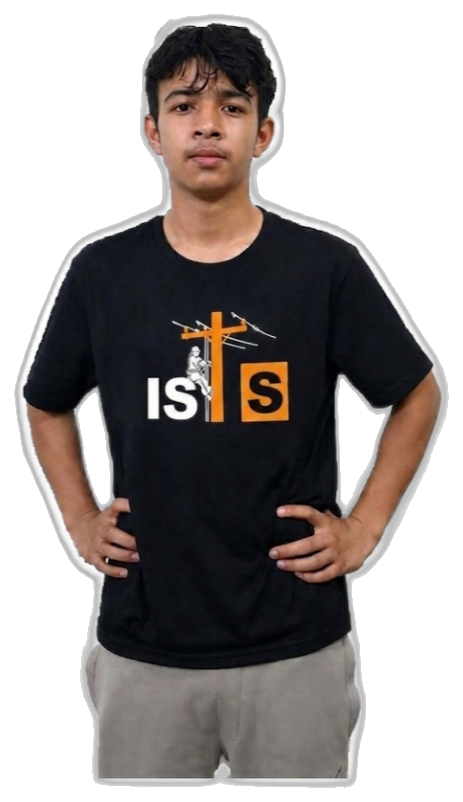
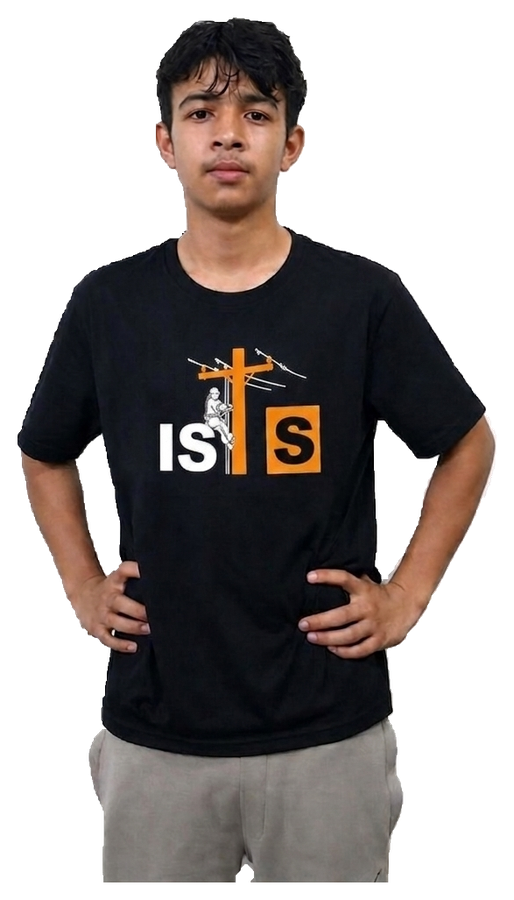
Rebuild Team page as an Instagram-story-style scrollytelling reel
Replaces the static Executive Committee / Media & Outreach / General
Members grids with a single MemberStoryReel: a sticky IG-story card
(segmented progress bar, text-then-photo staggered reveal, tap zones
to jump forward/back) paired with a scroll-driven roster list reusing
the homepage's onViewportEnter scrollytelling pattern. The reel
autoplays once scrolled into view -- the timer restarts whenever the
active member changes for any reason (autoplay, a scroll trigger, or
a click), so manual scrolling and autoplay never fight each other --
and pauses on hover or once scrolled out of view.

Also swapped in the user-supplied cutout photos (cleaner and higher
resolution than the earlier auto-generated ones), cropped to their
alpha bounding box and capped to 900px on the long side to keep page
weight reasonable.

Claude-Session: https://claude.ai/code/session_014QL8LwF9PhjyXZwzNjbfQy

Changed region(s): [[0.0302, 0.0, 0.9676, 0.9975], [0.3024, 0.3741, 0.635, 0.5299], [0.3931, 0.3117, 0.514, 0.3429]]

diff --git a/src/components/MemberStoryReel.tsx b/src/components/MemberStoryReel.tsx
@@ -1,0 +1,196 @@
+"use client";
+
+import { useEffect, useRef, useState } from "react";
+import Image from "next/image";
+import { AnimatePresence, motion, useInView } from "framer-motion";
+import { useSound } from "@/components/SoundProvider";
+import type { ExecMember } from "@/lib/data";
+
+const accents = [
+  { glow: "bg-primary/30", badge: "bg-primary/10 text-primary", bar: "bg-primary" },
+  { glow: "bg-cyan/30", badge: "bg-cyan/10 text-cyan", bar: "bg-cyan" },
+  { glow: "bg-violet/30", badge: "bg-violet/10 text-violet", bar: "bg-violet" },
+  { glow: "bg-lime/30", badge: "bg-lime/10 text-lime", bar: "bg-lime" },
+];
+
+const AUTOPLAY_MS = 4500;
+
+function initials(name: string) {
+  const parts = name.trim().split(/\s+/);
+  const first = parts[0]?.[0] ?? "";
+  const last = parts.length > 1 ? parts[parts.length - 1][0] : "";
+  return (first + last).toUpperCase();
+}
+
+export function MemberStoryReel({ members }: { members: ExecMember[] }) {
+  const [active, setActive] = useState(0);
+  const [paused, setPaused] = useState(false);
+  const stickyRef = useRef<HTMLDivElement | null>(null);
+  const inView = useInView(stickyRef, { amount: 0.4 });
+  const { play } = useSound();
+
+  useEffect(() => {
+    if (!inView || paused) return;
+    const t = setTimeout(() => {
+      setActive((a) => (a + 1) % members.length);
+    }, AUTOPLAY_MS);
+    return () => clearTimeout(t);
+  }, [active, inView, paused, members.length]);
+
+  const current = members[active];
+  const accent = accents[active % accents.length];
+
+  const goTo = (i: number) => {
+    setActive(((i % members.length) + members.length) % members.length);
+    play("click");
+  };
+
+  return (
+    <div className="grid gap-10 lg:grid-cols-[0.85fr_1fr] lg:gap-16">
+      <div className="flex flex-col">
+        {members.map((m, i) => (
+          <motion.button
+            key={m.name}
+            onClick={() => goTo(i)}
+            onViewportEnter={() => setActive(i)}
+            viewport={{ amount: 0.6 }}
+            initial={{ opacity: 0, x: -12 }}
+            whileInView={{ opacity: 1, x: 0 }}
+            transition={{ duration: 0.35 }}
+            className={`flex min-h-[13vh] items-center gap-3 rounded-xl border-l-2 px-3 text-left transition-colors cursor-pointer ${
+              i === active ? "border-primary bg-primary/5" : "border-transparent hover:bg-background-alt"
+            }`}
+          >
+            <span className={`font-mono text-xs ${i === active ? "text-primary" : "text-muted-soft"}`}>
+              {String(i + 1).padStart(2, "0")}
+            </span>
+            <span className="min-w-0 flex-1">
+              <span
+                className={`block truncate text-sm font-semibold ${i === active ? "text-foreground" : "text-muted"}`}
+              >
+                {m.name}
+              </span>
+              <span className="block truncate text-xs text-muted-soft">{m.role}</span>
+            </span>
+          </motion.button>
+        ))}
+      </div>
+
+      <div ref={stickyRef} className="lg:sticky lg:top-28 lg:self-start">
+        <div className="relative mx-auto w-full max-w-md pt-10">
+          <div className="mb-3 flex gap-1 px-1">
+            {members.map((_, i) => (
+              <div key={i} className="h-1 flex-1 overflow-hidden rounded-full bg-border">
+                {i < active && <div className={`h-full w-full ${accent.bar}`} />}
+                {i === active && (
+                  <motion.div
+                    key={active}
+                    className={`h-full ${accent.bar}`}
+                    initial={{ scaleX: 0 }}
+                    animate={{ scaleX: 1 }}
+                    transition={{ duration: AUTOPLAY_MS / 1000, ease: "linear" }}
+                    style={{ transformOrigin: "left", width: "100%" }}
+                  />
+                )}
+              </div>
+            ))}
+          </div>
+
+          <div
+            className="card-surface relative rounded-3xl shadow-2xl"
+            onMouseEnter={() => setPaused(true)}
+            onMouseLeave={() => setPaused(false)}
+          >
+            <button
+              aria-label="Previous member"
+              onClick={() => goTo(active - 1)}
+              className="absolute inset-y-0 left-0 z-30 w-1/3 cursor-pointer"
+            />
+            <button
+              aria-label="Next member"
+              onClick={() => goTo(active + 1)}
+              className="absolute inset-y-0 right-0 z-30 w-1/3 cursor-pointer"
+            />
+
+            <div className="relative overflow-hidden rounded-t-3xl bg-background-alt" style={{ height: 168 }}>
+              <div className="bg-dot-grid absolute inset-0 opacity-70" />
+              <div
+                aria-hidden
+                className={`animate-blob absolute -right-10 -top-10 h-32 w-32 rounded-full ${accent.glow} blur-3xl`}
+              />
+              <span aria-hidden className="absolute left-4 top-4 h-2.5 w-2.5 border-l border-t border-border" />
+              <span aria-hidden className="absolute right-4 top-4 h-2.5 w-2.5 border-r border-t border-border" />
+
+              <AnimatePresence mode="wait">
+                <motion.div
+                  key={`text-${active}`}
+                  initial={{ opacity: 0, y: 10 }}
+                  animate={{ opacity: 1, y: 0 }}
+                  exit={{ opacity: 0, y: -6 }}
+                  transition={{ duration: 0.3 }}
+                  className="relative z-10 p-5"
+                >
+                  <span
+                    className={`inline-block rounded-full px-2.5 py-0.5 font-mono text-[10px] font-medium uppercase tracking-wide ${accent.badge}`}
+                  >
+                    {current.role}
+                  </span>
+                  <h3 className="mt-2 max-w-[62%] font-display text-lg font-bold text-foreground sm:text-xl">
+                    {current.name}
+                  </h3>
+                </motion.div>
+              </AnimatePresence>
+            </div>
+
+            <div className="relative rounded-b-3xl bg-surface p-5 pt-4">
+              <AnimatePresence mode="wait">
+                <motion.p
+                  key={`bio-${active}`}
+                  initial={{ opacity: 0 }}
+                  animate={{ opacity: 1 }}
+                  exit={{ opacity: 0 }}
+                  transition={{ duration: 0.3, delay: 0.1 }}
+                  className="line-clamp-4 text-sm leading-relaxed text-muted"
+                >
+                  {current.bio}
+                </motion.p>
+              </AnimatePresence>
+            </div>
+
+            <AnimatePresence mode="wait">
+              {current.image ? (
+                <motion.div
+                  key={`photo-${active}`}
+                  initial={{ opacity: 0, y: 26, scale: 0.85, rotate: -6 }}
+                  animate={{ opacity: 1, y: 0, scale: 1, rotate: -3 }}
+                  exit={{ opacity: 0, y: -14, scale: 0.9 }}
+                  transition={{ duration: 0.45, delay: 0.25, ease: [0.21, 0.47, 0.32, 0.98] }}
+                  className="pointer-events-none absolute -top-12 right-3 z-20 h-44 w-28 sm:-top-14 sm:h-52 sm:w-32"
+                >
+                  <Image
+                    src={current.image}
+                    alt={current.name}
+                    fill
+                    sizes="160px"
+                    className="object-contain object-bottom drop-shadow-[0_14px_18px_rgba(15,23,42,0.3)]"
+                  />
+                </motion.div>
+              ) : (
+                <motion.div
+                  key={`avatar-${active}`}
+                  initial={{ opacity: 0, y: 16, scale: 0.85 }}
+                  animate={{ opacity: 1, y: 0, scale: 1 }}
+                  exit={{ opacity: 0, y: -10, scale: 0.9 }}
+                  transition={{ duration: 0.4, delay: 0.25 }}
+                  className="pointer-events-none absolute -top-8 right-4 z-20 flex h-16 w-16 items-center justify-center rounded-2xl bg-gradient-to-br from-primary via-violet to-cyan font-display text-lg font-bold text-white shadow-lg"
+                >
+                  {initials(current.name)}
+                </motion.div>
+              )}
+            </AnimatePresence>
+          </div>
+        </div>
+      </div>
+    </div>
+  );
+}

diff --git a/src/app/team/page.tsx b/src/app/team/page.tsx
@@ -1,9 +1,9 @@
 import type { Metadata } from "next";
 import Image from "next/image";
-import { Crown, Megaphone, Users2 } from "lucide-react";
+import { Crown, Users2 } from "lucide-react";
 import { PageHero } from "@/components/PageHero";
 import { SectionHeading } from "@/components/SectionHeading";
-import { MemberCard } from "@/components/MemberCard";
+import { MemberStoryReel } from "@/components/MemberStoryReel";
 import { Reveal } from "@/components/Reveal";
 import { executiveTeam, generalMembers, siteMeta } from "@/lib/data";
 
@@ -14,8 +14,7 @@ export const metadata: Metadata = {
 };
 
 const president = executiveTeam[0];
-const restOfExec = executiveTeam.slice(1).filter((m) => m.role !== "Media & Outreach");
-const mediaTeam = executiveTeam.filter((m) => m.role === "Media & Outreach");
+const reelMembers = [...executiveTeam.slice(1), ...generalMembers];
 
 export default function TeamPage() {
   return (
@@ -72,54 +71,20 @@ export default function TeamPage() {
         </Reveal>
       </section>
 
-      {/* EXECUTIVE COMMITTEE */}
+      {/* MEMBER STORY REEL */}
       <section className="px-5 py-16 sm:px-8">
         <div className="mx-auto max-w-6xl">
-          <SectionHeading eyebrow="Executive Committee" title="One role each. One team together." />
+          <SectionHeading
+            eyebrow="Executive Committee & Members"
+            title="One role each. One team together."
+            description="Scroll through, or just let it play."
+          />
 
-          <div className="mt-12 grid gap-5 sm:grid-cols-2 lg:grid-cols-3">
-            {restOfExec.map((member, i) => (
-              <MemberCard key={member.name} member={member} index={i} />
-            ))}
-          </div>
-        </div>
-      </section>
-
-      {/* MEDIA & OUTREACH POD */}
-      <section className="px-5 py-4 sm:px-8">
-        <div className="mx-auto max-w-6xl">
-          <Reveal className="mb-8 flex items-center gap-3">
-            <span className="flex h-10 w-10 items-center justify-center rounded-xl bg-violet/10 text-violet">
-              <Megaphone size={18} strokeWidth={2.2} />
-            </span>
-            <div>
-              <h3 className="font-display text-lg font-semibold text-foreground">
-                Media &amp; Outreach Team
-              </h3>
-              <p className="text-sm text-muted">Posters, photography &amp; promotion.</p>
-            </div>
-          </Reveal>
-
-          <div className="grid gap-5 sm:grid-cols-3">
-            {mediaTeam.map((member, i) => (
-              <MemberCard key={member.name} member={member} index={i} compact />
-            ))}
-          </div>
-        </div>
-      </section>
-
-      {/* GENERAL MEMBERS */}
-      <section className="px-5 py-20 sm:px-8">
-        <div className="mx-auto max-w-6xl">
-          <SectionHeading eyebrow="Members" title="The builders behind every project" />
-
-          <div className="mt-12 grid grid-cols-2 gap-4 sm:grid-cols-3 lg:grid-cols-4">
-            {generalMembers.map((member, i) => (
-              <MemberCard key={member.name} member={member} index={i} compact />
-            ))}
+          <div className="mt-14">
+            <MemberStoryReel members={reelMembers} />
           </div>
 
-          <Reveal className="mt-10">
+          <Reveal className="mt-16">
             <div className="card-surface flex items-center gap-4 p-6 shadow-sm">
               <span className="flex h-11 w-11 shrink-0 items-center justify-center rounded-xl bg-lime/10 text-lime">
                 <Users2 size={20} strokeWidth={2.2} />
